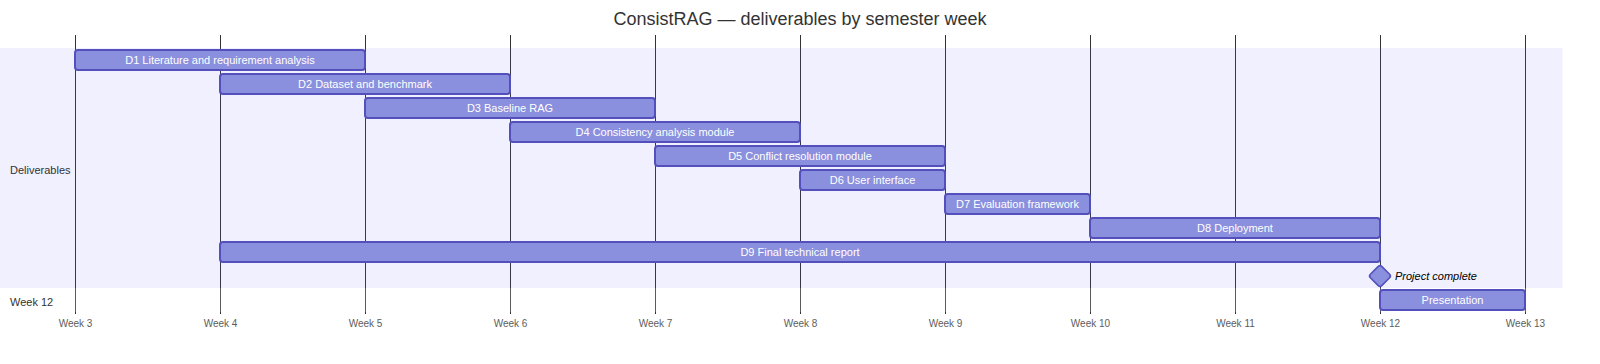
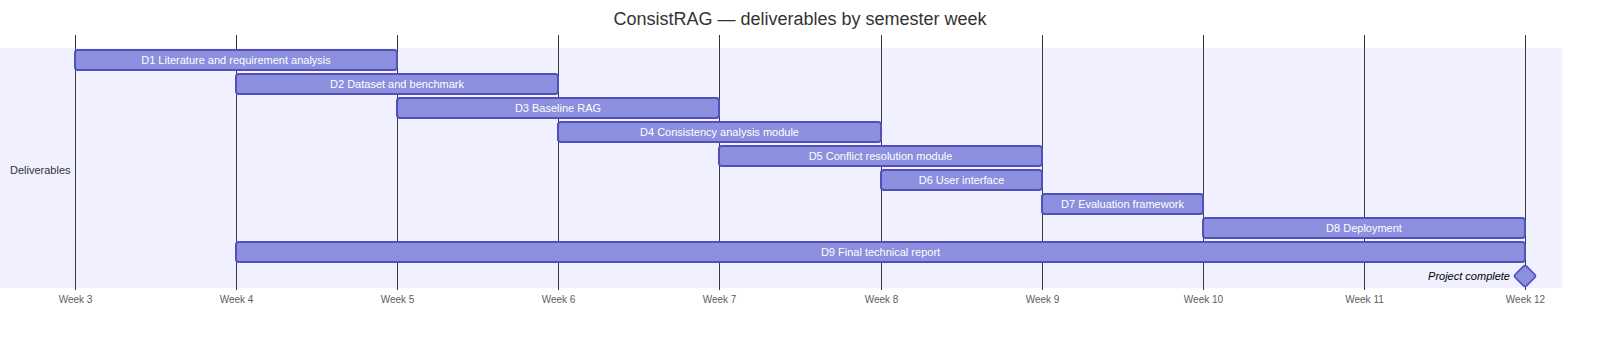
Remove presentation bar from Gantt chart
Claude-Session: https://claude.ai/code/session_01FHxSgmcjkLqEFFrcDcbkh9

diff --git a/docs/gantt.md b/docs/gantt.md
@@ -1,7 +1,7 @@
 # ConsistRAG — Schedule
 
 An indicative plan of the deliverables in `project_spec.md` §34 over the 12-week semester. Work runs from week 3 to
-week 11; week 12 is for the presentation. The detailed phase plan is in `design.md` §9. A rendered copy is in
+week 11. The detailed phase plan is in `design.md` §9. A rendered copy is in
 `img/gantt.png`.
 
 ```mermaid
@@ -24,9 +24,6 @@ gantt
     D8 Deployment                            :d8, 2024-03-04, 14d
     D9 Final technical report                :d9, 2024-01-22, 56d
     Project complete                         :milestone, fin, 2024-03-18, 0d
-
-    section Week 12
-    Presentation                             :p, 2024-03-18, 7d
 ```
 
 | Deliverable | Weeks |
@@ -40,4 +37,3 @@ gantt
 | D7 Evaluation framework | 9 |
 | D8 Deployment | 10–11 |
 | D9 Final technical report | 4–11 |
-| Presentation | 12 |
